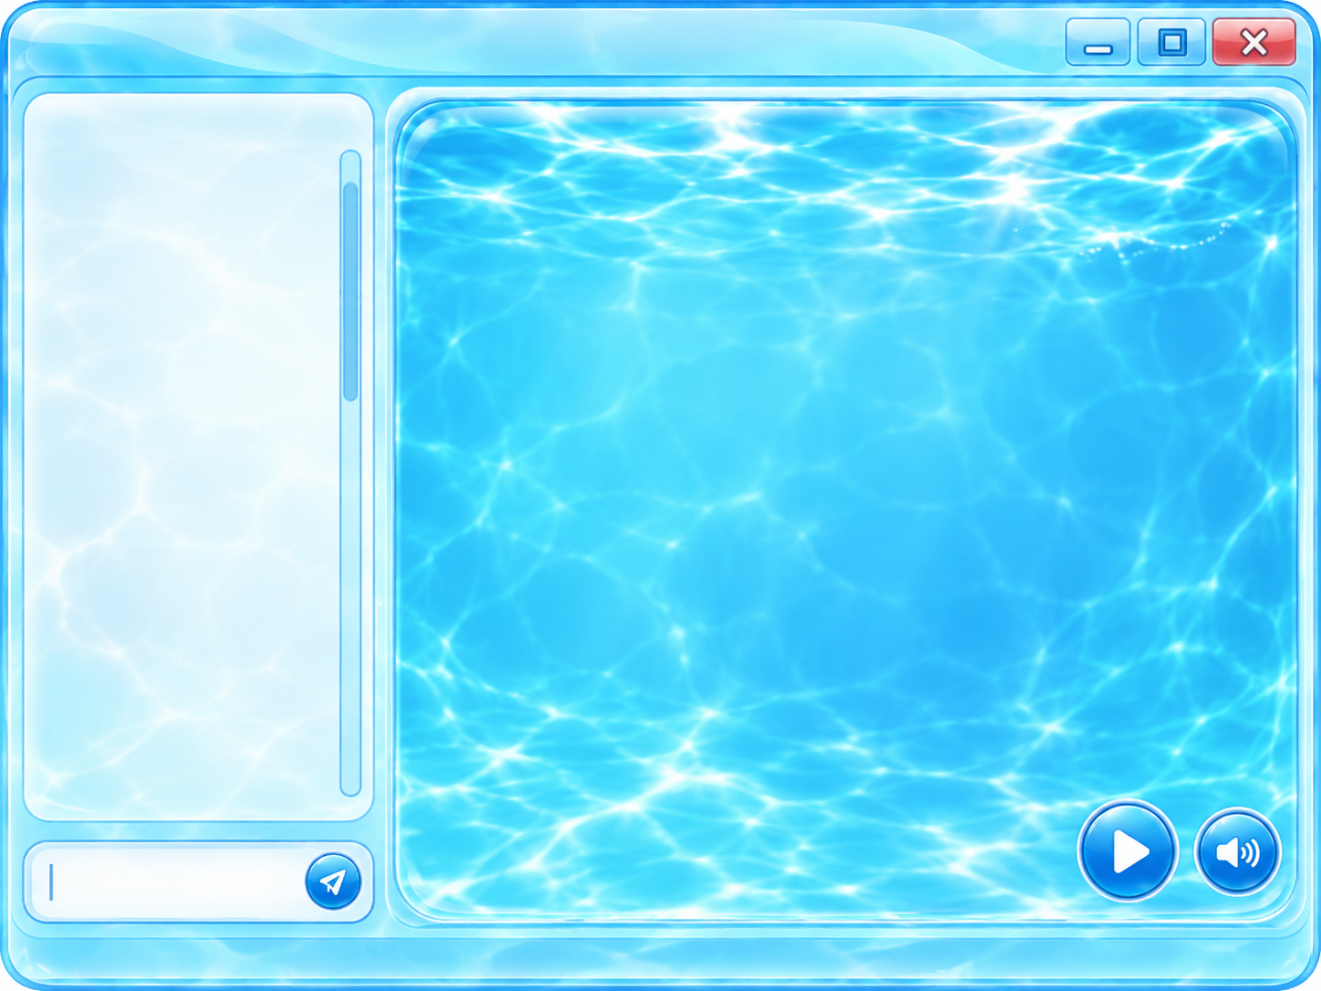
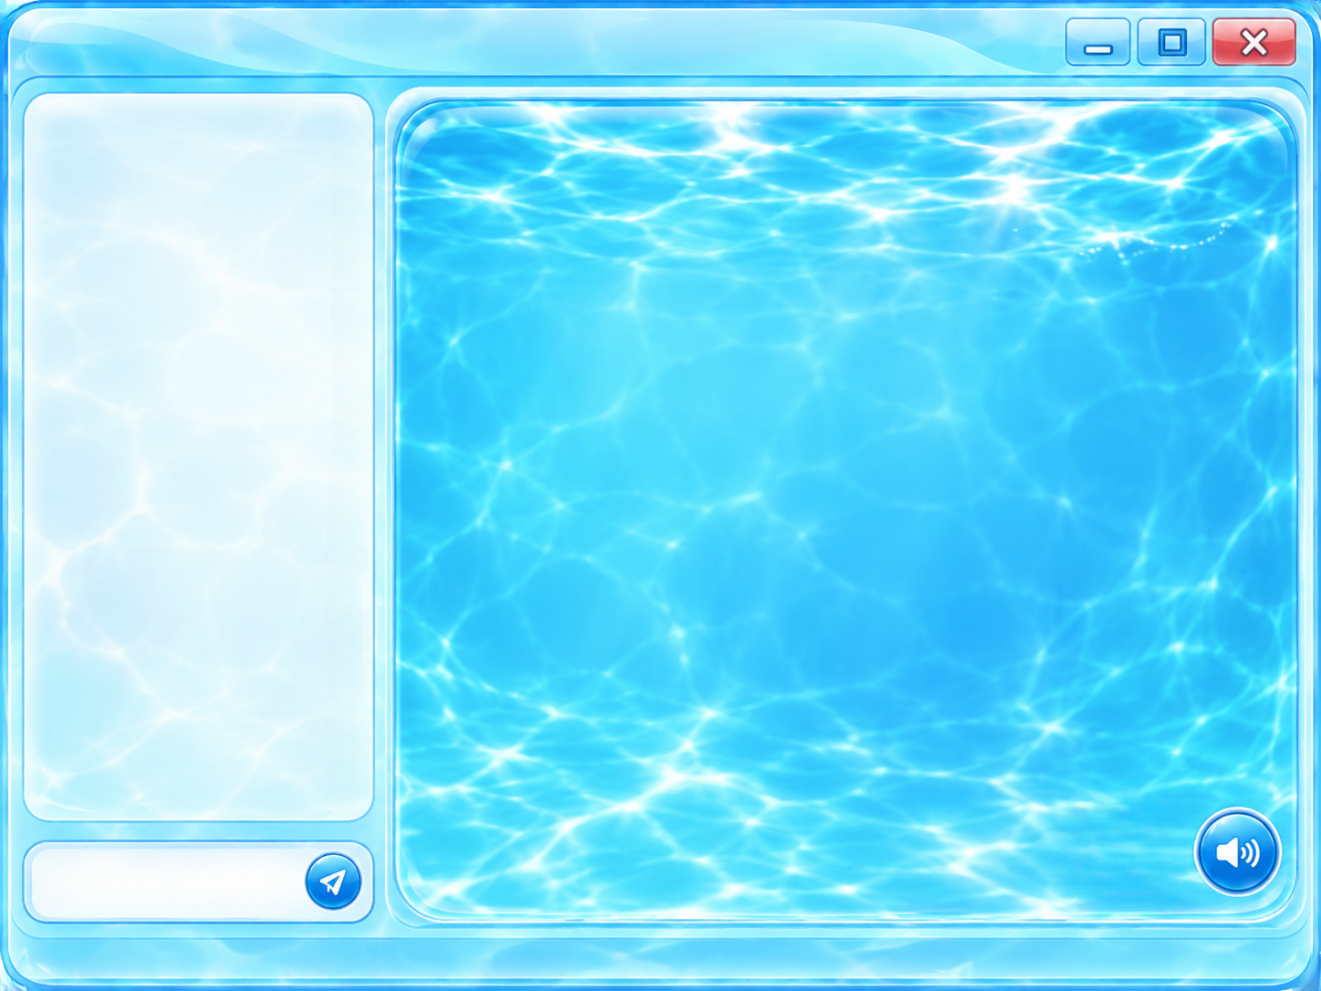
Updated the chatroom more

diff --git a/frontend/src/components/app-shell.tsx b/frontend/src/components/app-shell.tsx
@@ -1,6 +1,6 @@
 import { useEffect, useState, type ReactNode } from "react";
 import { Link, useRouterState } from "@tanstack/react-router";
-import { Globe, Home, Settings, ShieldCheck, Wallet, Wifi } from "lucide-react";
+import { Home, Settings, ShieldCheck, Wallet, Wifi } from "lucide-react";
 import { Button } from "@/components/ui/button";
 import {
   Dialog,
@@ -64,9 +64,7 @@ export function AppShell({ children }: { children: ReactNode }) {
       <div className="wallpaper-wash" />
       <header className="desktop-header">
         <Link to="/" className="brand" aria-label="Bowl Street Journal home">
-          <div className="brand-mark">
-            <Globe size={29} />
-          </div>
+          <img className="brand-logo" src="/bowl-street-logo.png" alt="" width={70} height={55} />
           <div className="brand-name">Bowl Street Journal</div>
         </Link>
         <div className="header-right">

diff --git a/frontend/src/styles.css b/frontend/src/styles.css
@@ -284,3 +284,6 @@ input[type="number"]::-webkit-inner-spin-button,input[type="number"]::-webkit-ou
 /* Gill in his tie (same art as the chat room). That image faces right, so mirror it to match the swim path. */
 .bowl-control .swimming-gill img.gill-tie-fish{animation-name:gill-fin-tie;transform:translateY(-8%) scale(1.3) scaleX(-1)}
 @keyframes gill-fin-tie{0%,100%{transform:translateY(-8%) scale(1.3) scaleX(-1) rotate(-2deg)}50%{transform:translateY(-8%) scale(1.3) scaleX(-1) rotate(2deg) scaleY(.96)}}
+
+.brand-logo{width:70px;height:55px;object-fit:contain;flex-shrink:0;filter:drop-shadow(0 2px 3px #09608266)}
+@media(max-width:600px){.brand-logo{width:50px;height:42px}}

diff --git a/frontend/src/routes/__root.tsx b/frontend/src/routes/__root.tsx
@@ -108,7 +108,8 @@ export const Route = createRootRouteWithContext<{ queryClient: QueryClient }>()(
           rel: "stylesheet",
           href: appCss,
         },
-        { rel: "icon", href: "/favicon.ico", type: "image/x-icon" },
+        { rel: "icon", href: "/bowl-street-logo.png", type: "image/png" },
+        { rel: "apple-touch-icon", href: "/bowl-street-logo.png" },
       ],
     }),
     shellComponent: RootShell,
